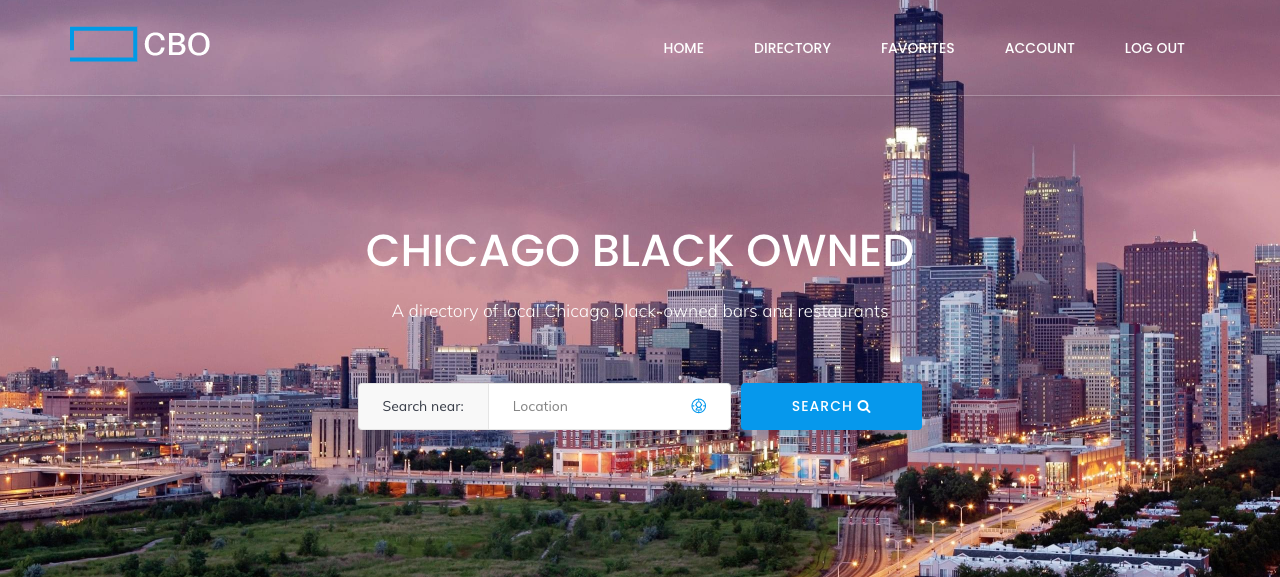
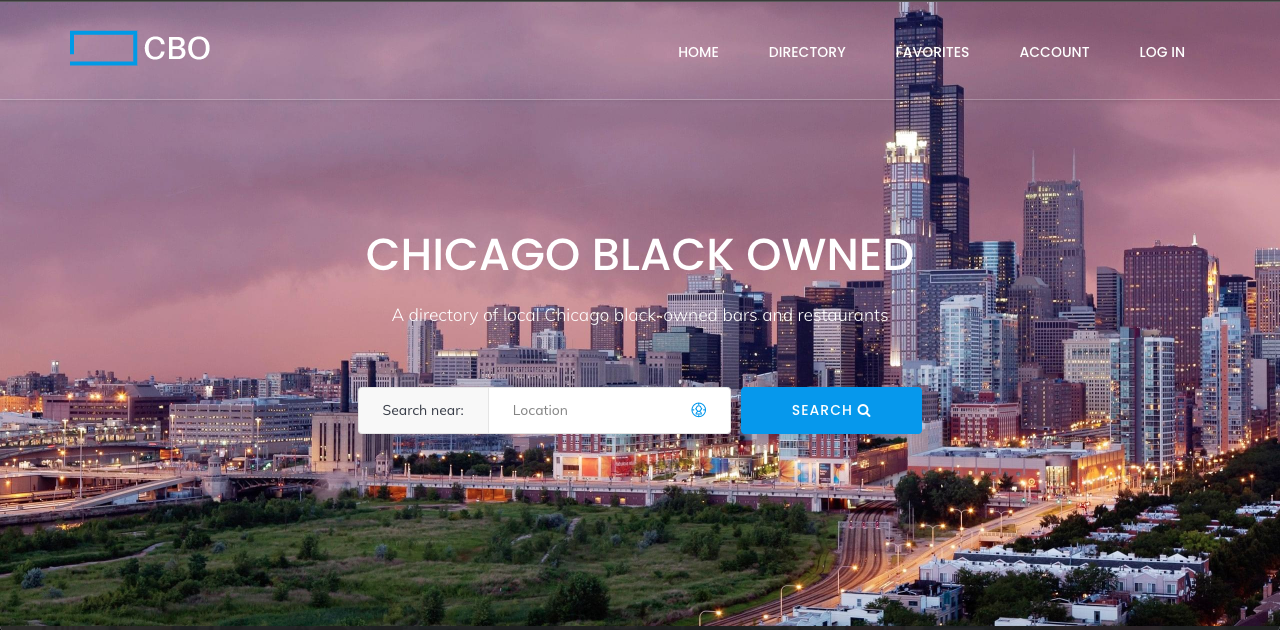
Updates My Work section and adds screenshots

diff --git a/index.html b/index.html
@@ -20,7 +20,7 @@
 
 	<!-- Header -->
 	<header id="header">
-		<h1>Big Picture</h1>
+		<h1>Colin Klein</h1>
 		<nav>
 			<ul>
 				<li><a href="#intro">Intro</a></li>
@@ -77,27 +77,25 @@
 		<div class="content">
 			<header>
 				<h2>My Work</h2>
-				<p>Lorem ipsum dolor sit amet et sapien sed elementum egestas dolore condimentum.
-					Fusce blandit ultrices sapien, in accumsan orci rhoncus eu. Sed sodales venenatis
-					arcu, id varius justo euismod in. Curabitur egestas consectetur magna vitae.</p>
+				<p>CBO is a web app that I built as my capstone for Actualize bootcamp. It is a directory of black owned bars and restraunts across Chicagoland, with the goal of helping people easily and quickly locate places in their area. Feel free to check it out at <a href="http://www.cboeats.com/">www.cboeats.com!</a></p>
 			</header>
 
 			<!-- Gallery  -->
 			<div class="gallery">
 				<article class="from-left">
 					<a href="images/fulls/CBO-home.png" class="image fit"><img src="images/fulls/CBO-home.png"
-							title="The Anonymous Red" alt="" /></a>
+							title="Homepage" alt="Homepage" /></a>
 				</article>
 				<article class="from-right">
-					<a href="images/fulls/02.jpg" class="image fit"><img src="images/thumbs/02.jpg" title="Airchitecture II"
-							alt="" /></a>
+					<a href="images/fulls/CBO-directory.png" class="image fit"><img src="images/fulls/CBO-directory.png" title="Directory"
+							alt="Directory" /></a>
 				</article>
 				<article class="from-left">
-					<a href="images/fulls/03.jpg" class="image fit"><img src="images/thumbs/03.jpg" title="Air Lounge"
-							alt="" /></a>
+					<a href="images/fulls/CBO-favorites.png" class="image fit"><img src="images/fulls/CBO-favorites.png" title="Favorites Page"
+							alt="Favorites Page" /></a>
 				</article>
 				<article class="from-right">
-					<a href="images/fulls/04.jpg" class="image fit"><img src="images/thumbs/04.jpg" title="Carry on" alt="" /></a>
+					<a href="images/fulls/CBO-directory2.png" class="image fit"><img src="images/fulls/CBO-directory2.png" title="Directory and Map" alt="Directory and Map" /></a>
 				</article>
 				<article class="from-left">
 					<a href="images/fulls/05.jpg" class="image fit"><img src="images/thumbs/05.jpg" title="The sparkling shell"
@@ -116,14 +114,14 @@
 		<div class="content">
 			<header>
 				<h2>Say Hello.</h2>
-				<p>Lorem ipsum dolor sit amet et sapien sed elementum egestas dolore condimentum.</p>
+				<p>Feel free to get in touch! Email me here and I'll get back to you as soon as possible.</p>
 			</header>
 			<div class="box">
-				<form method="post" action="#">
+				<form method="post" action="https://formspree.io/xleodwjj">
 					<div class="fields">
 						<div class="field half"><input type="text" name="name" placeholder="Name" /></div>
-						<div class="field half"><input type="email" name="email" placeholder="Email" /></div>
-						<div class="field"><textarea name="message" placeholder="Message" rows="6"></textarea></div>
+						<div class="field half"><input type="email" name="email" placeholder="Email" required /></div>
+						<div class="field"><textarea name="message" placeholder="Message" rows="6" required></textarea></div>
 					</div>
 					<ul class="actions special">
 						<li><input type="submit" value="Send Message" /></li>
